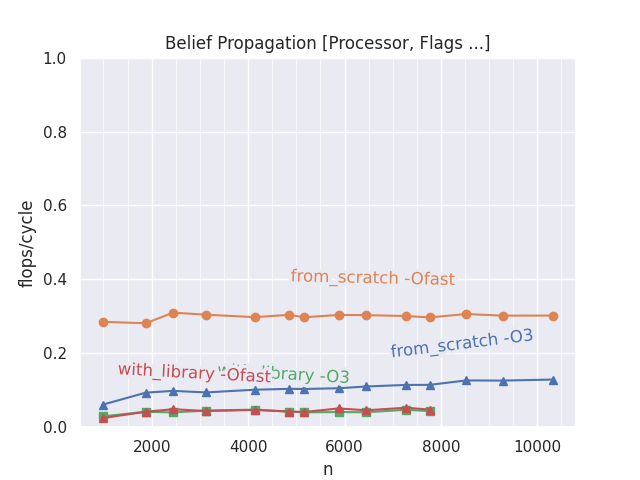
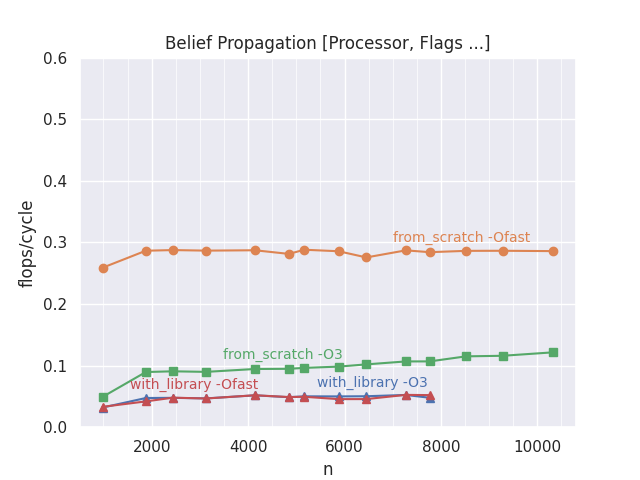
beautified plot png

diff --git a/measurement_utils/plot_perf.py b/measurement_utils/plot_perf.py
@@ -43,14 +43,19 @@ plt.title("Belief Propagation [Processor, Flags ...]")
 plt.xlabel('n')
 plt.ylabel('Performance [F/C]')
 #plt.legend()
-plt.ylim(ymin=0,ymax=1)
+plt.ylim(ymin=0,ymax=0.6)
 plt.ylabel('flops/cycle')
 #plt.grid()
 ax = plt.gca()
 ax.get_xaxis().set_minor_locator(matplotlib.ticker.AutoMinorLocator())
 ax.grid(b=True, which='major', color='w', linewidth=1.0)
 ax.grid(b=True, which='minor', color='w', linewidth=0.5)
-labelLines(ax.get_lines(), yoffsets=0.1)
+labelLines(ax.get_lines(), 
+            yoffsets=0.022, 
+            fontsize=10, 
+            align=False, 
+            outline_color=None, 
+            outline_width=0)
 ### Generate the plot
 plt.savefig('./plots/performance_plot.png')  
 plt.show() 
